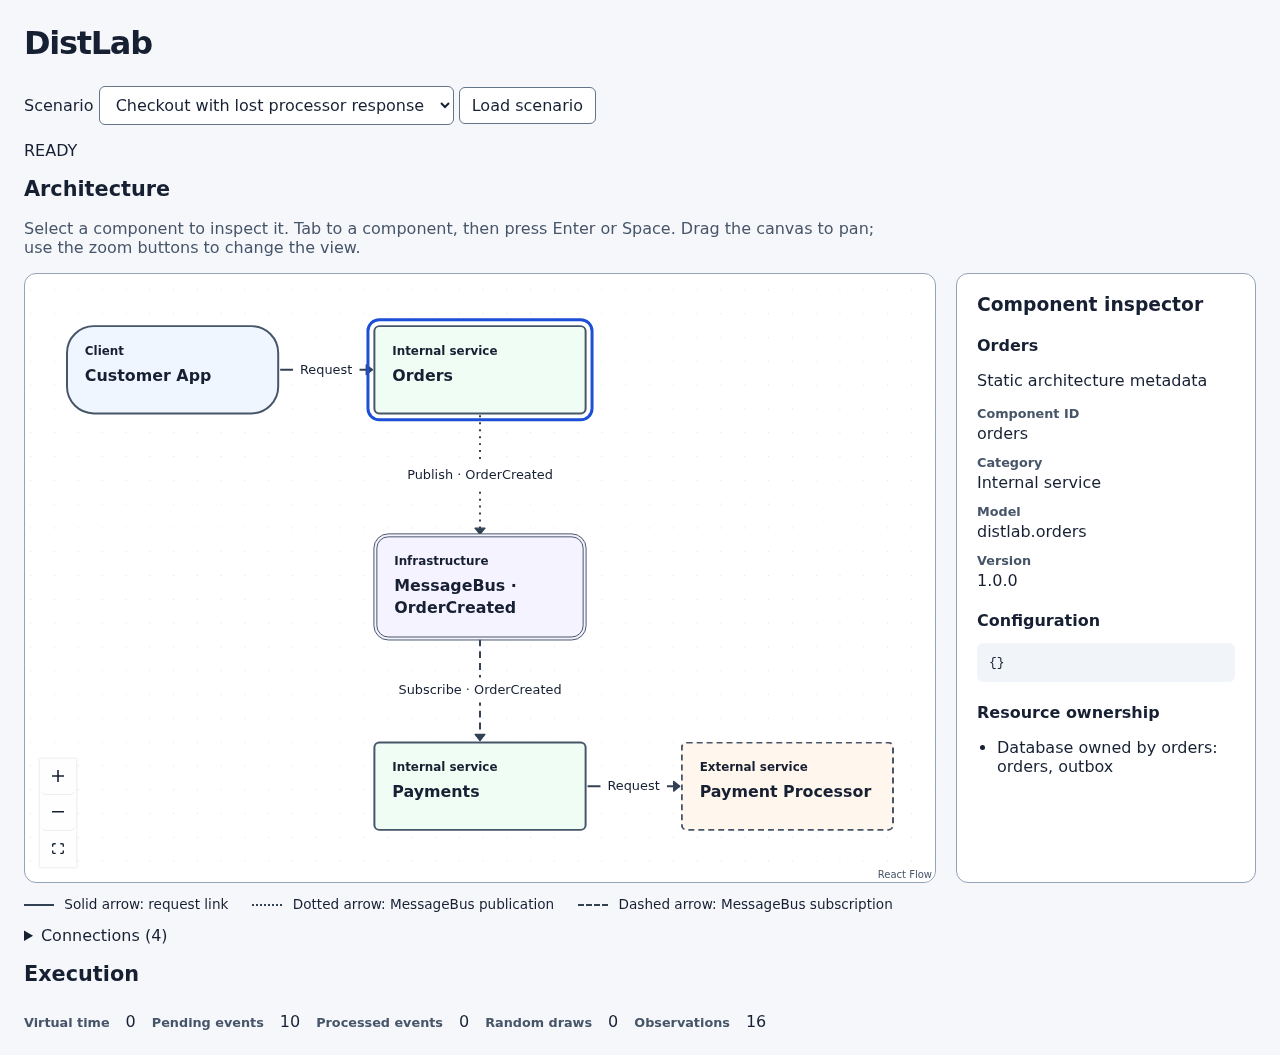
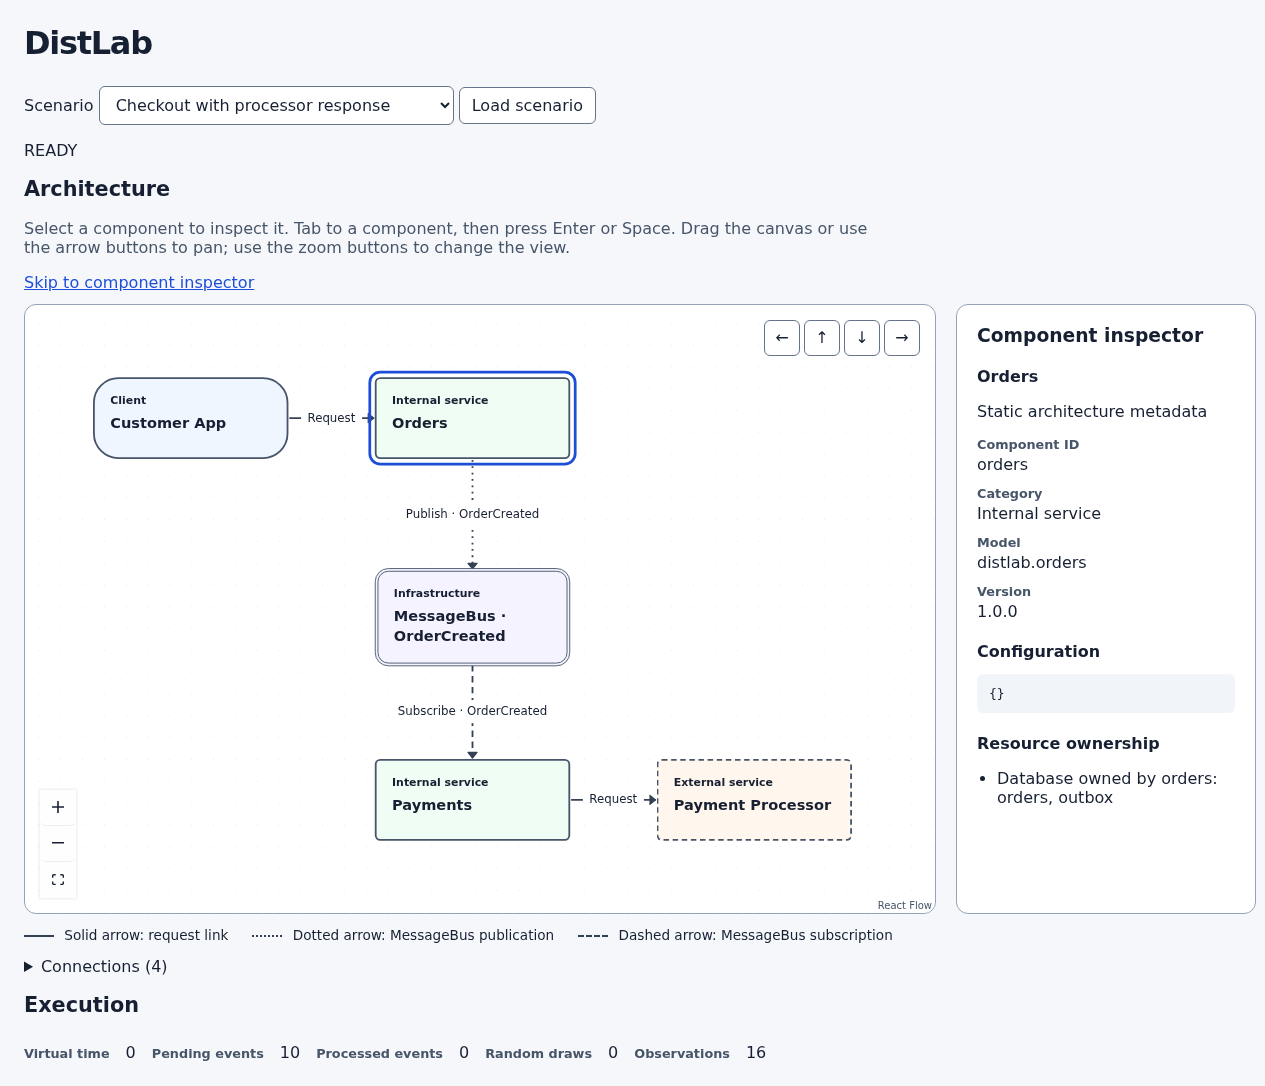
Improve architecture navigation accessibility and coverage

diff --git a/apps/web/src/ArchitectureView.tsx b/apps/web/src/ArchitectureView.tsx
@@ -1,5 +1,5 @@
 import { memo, useCallback, useMemo, useState } from "react";
-import { Background, Controls, Handle, Position, ReactFlow } from "@xyflow/react";
+import { Background, Controls, Handle, Panel, Position, ReactFlow, useReactFlow } from "@xyflow/react";
 import type { NodeChange, NodeProps } from "@xyflow/react";
 import type { ArchitectureDefinition, ArchitectureProjection } from "@distlab/contracts";
 import { categoryLabels, mapArchitecture } from "./architecture-view.ts";
@@ -25,6 +25,20 @@ const ariaLabelConfig = {
 };
 const fitViewOptions = { padding: 0.18, maxZoom: 1 };
 
+function PanControls() {
+  const { getViewport, setViewport } = useReactFlow();
+  const pan = (x: number, y: number) => {
+    const viewport = getViewport();
+    void setViewport({ ...viewport, x: viewport.x + x, y: viewport.y + y });
+  };
+  return <Panel position="top-right" className="pan-controls" role="group" aria-label="Pan view">
+    <button type="button" aria-label="Pan left" onClick={() => pan(80, 0)}><span aria-hidden="true">←</span></button>
+    <button type="button" aria-label="Pan up" onClick={() => pan(0, 80)}><span aria-hidden="true">↑</span></button>
+    <button type="button" aria-label="Pan down" onClick={() => pan(0, -80)}><span aria-hidden="true">↓</span></button>
+    <button type="button" aria-label="Pan right" onClick={() => pan(-80, 0)}><span aria-hidden="true">→</span></button>
+  </Panel>;
+}
+
 export function ArchitectureView({ architecture, metadata, scenarioName }: {
   readonly architecture: ArchitectureProjection;
   readonly metadata?: ArchitectureDefinition;
@@ -34,7 +48,7 @@ export function ArchitectureView({ architecture, metadata, scenarioName }: {
   const [selectedId, setSelectedId] = useState<string | null>(null);
   const nodes = useMemo(() => graph.nodes.map(node => ({
     ...node, selected: node.id === selectedId,
-    domAttributes: { "aria-pressed": node.id === selectedId, "aria-controls": "inspector-heading" },
+    domAttributes: { "aria-pressed": node.id === selectedId, "aria-controls": "component-inspector" },
   })), [graph.nodes, selectedId]);
   // Accept only selection changes. Positions and graph structure are immutable presentation inputs.
   const onNodesChange = useCallback((changes: NodeChange<ArchitectureNode>[]) => {
@@ -54,7 +68,8 @@ export function ArchitectureView({ architecture, metadata, scenarioName }: {
   if (graph.error) return <p role="alert">{graph.error}</p>;
   if (!nodes.length) return <p>No architecture components to display.</p>;
   return <>
-    <p className="graph-help">Select a component to inspect it. Tab to a component, then press Enter or Space. Drag the canvas to pan; use the zoom buttons to change the view.</p>
+    <p className="graph-help">Select a component to inspect it. Tab to a component, then press Enter or Space. Drag the canvas or use the arrow buttons to pan; use the zoom buttons to change the view.</p>
+    <a className="inspector-link" href="#component-inspector">Skip to component inspector</a>
     <div className="architecture-layout">
       <div className="graph-canvas" aria-label="Architecture graph" onKeyDownCapture={event => {
         if (!(event.target instanceof Element) || !event.target.closest(".react-flow__node")) return;
@@ -63,7 +78,7 @@ export function ArchitectureView({ architecture, metadata, scenarioName }: {
           event.preventDefault(); event.stopPropagation(); clearSelection();
         }
       }}>
-        <ReactFlow nodes={nodes} edges={graph.edges} nodeTypes={nodeTypes}
+        <ReactFlow aria-label="Architecture graph" nodes={nodes} edges={graph.edges} nodeTypes={nodeTypes}
           onNodesChange={onNodesChange} onPaneClick={clearSelection}
           nodesDraggable={false} nodesConnectable={false} edgesReconnectable={false}
           nodesFocusable edgesFocusable={false} deleteKeyCode={null}
@@ -72,6 +87,7 @@ export function ArchitectureView({ architecture, metadata, scenarioName }: {
           ariaLabelConfig={ariaLabelConfig}>
           <Background gap={24} color="#cbd5e1" />
           <Controls showInteractive={false} />
+          <PanControls />
         </ReactFlow>
       </div>
       <ComponentInspector node={graph.nodes.find(node => node.id === selectedId)} />

diff --git a/apps/web/e2e/smoke.spec.ts b/apps/web/e2e/smoke.spec.ts
@@ -49,6 +49,7 @@ for (const scenario of ["normal", "response-lost"]) {
     await expect(page.getByRole("status").filter({ hasText: "READY" })).toBeVisible();
     const architecture = page.getByRole("region", { name: "Architecture", exact: true });
     const inspector = page.getByRole("complementary", { name: "Component inspector" });
+    await expect(page.getByRole("application", { name: "Architecture graph" })).toBeVisible();
     await expect(inspector).toContainText("Select a component");
     await expect(architecture.locator(".react-flow__node")).toHaveCount(5);
     await expect(architecture.locator(".react-flow__edge")).toHaveCount(4);
@@ -92,6 +93,15 @@ for (const scenario of ["normal", "response-lost"]) {
     await page.getByRole("button", { name: "Zoom Out", exact: true }).click();
     const pane = architecture.locator(".react-flow__pane");
     const viewport = architecture.locator(".react-flow__viewport");
+    const beforeButtons = await viewport.getAttribute("style");
+    for (const direction of ["left", "up", "down", "right"]) {
+      const previous = await viewport.getAttribute("style");
+      const button = page.getByRole("button", { name: `Pan ${direction}`, exact: true });
+      await button.focus();
+      await button.press("Enter");
+      await expect(viewport).not.toHaveAttribute("style", previous!);
+    }
+    await expect(viewport).toHaveAttribute("style", beforeButtons!);
     const transform = await viewport.getAttribute("style");
     await pane.scrollIntoViewIfNeeded();
     const bounds = (await pane.boundingBox())!;
@@ -103,6 +113,12 @@ for (const scenario of ["normal", "response-lost"]) {
     await page.getByLabel("Scenario").selectOption(scenario === "normal" ? "response-lost" : "normal");
     await orders.click();
     await expect(inspector).toContainText("Database owned by orders: orders, outbox");
+    await expect(orders).toHaveAttribute("aria-controls", "component-inspector");
+    const inspectorLink = page.getByRole("link", { name: "Skip to component inspector" });
+    await inspectorLink.focus();
+    await inspectorLink.press("Enter");
+    await expect(inspector).toBeFocused();
+    await expect(inspector).toHaveCSS("outline-style", "solid");
     expect(await page.getByRole("region", { name: "Execution" }).innerText()).toBe(execution);
     expect(await page.evaluate(() => window.workerEvidence.commands.map(command => command.type))).toEqual(["load"]);
     await page.evaluate(() => window.workerEvidence.probeHistory());

diff --git a/apps/web/src/architecture.css b/apps/web/src/architecture.css
@@ -6,7 +6,13 @@ h1 { margin: 0 0 24px; letter-spacing: -.04em; }
 h2 { font-size: 1.3rem; }
 button, select { font: inherit; padding: 8px 12px; border: 1px solid #64748b; border-radius: 6px; background: white; color: #172033; }
 button { cursor: pointer; }
-button:focus-visible, select:focus-visible, summary:focus-visible { outline: 3px solid #1d4ed8; outline-offset: 3px; }
+button:hover { background: #e2e8f0; }
+button, a, summary { touch-action: manipulation; }
+button:focus-visible, select:focus-visible, summary:focus-visible, a:focus-visible, .inspector:focus-visible { outline: 3px solid #1d4ed8; outline-offset: 3px; }
+.inspector-link { display: inline-block; margin-bottom: 12px; color: #1d4ed8; }
+.inspector-link:hover { color: #172033; }
+.pan-controls { display: flex; gap: 4px; }
+.pan-controls button { width: 36px; height: 36px; padding: 0; }
 .architecture-layout { display: grid; grid-template-columns: minmax(0, 1fr) 300px; gap: 20px; align-items: stretch; }
 .graph-help { max-width: 85ch; color: #475569; }
 .graph-canvas { height: 610px; min-width: 0; background: #fff; border: 1px solid #94a3b8; border-radius: 12px; overflow: hidden; }

diff --git a/apps/web/e2e/accessibility.spec.ts b/apps/web/e2e/accessibility.spec.ts
@@ -1,0 +1,20 @@
+import AxeBuilder from "@axe-core/playwright";
+import { expect, test } from "@playwright/test";
+
+test("architecture and each inspector pass accessibility checks at desktop and mobile sizes", async ({ page }) => {
+  await page.goto("/");
+  expect((await new AxeBuilder({ page }).analyze()).violations).toEqual([]);
+  await page.getByRole("button", { name: "Load scenario" }).click();
+  const nodes = page.locator(".react-flow__node");
+  await expect(nodes).toHaveCount(5);
+  for (const width of [1280, 390]) {
+    await page.setViewportSize({ width, height: 900 });
+    await page.getByRole("button", { name: "Fit View", exact: true }).click();
+    for (const node of await nodes.all()) {
+      await node.focus();
+      await node.press("Enter");
+      await expect(node).toHaveAttribute("aria-pressed", "true");
+      expect((await new AxeBuilder({ page }).analyze()).violations).toEqual([]);
+    }
+  }
+});

diff --git a/apps/web/src/ComponentInspector.tsx b/apps/web/src/ComponentInspector.tsx
@@ -2,7 +2,7 @@ import type { ArchitectureNode } from "./architecture-view.ts";
 import { categoryLabels } from "./architecture-view.ts";
 
 export function ComponentInspector({ node }: { readonly node: ArchitectureNode | undefined }) {
-  return <aside className="inspector" aria-labelledby="inspector-heading">
+  return <aside id="component-inspector" className="inspector" aria-labelledby="inspector-heading" tabIndex={-1}>
     <h3 id="inspector-heading">Component inspector</h3>
     {node ? <>
       <h4>{node.data.title}</h4>

diff --git a/apps/web/docs/issue-18-review.md b/apps/web/docs/issue-18-review.md
@@ -1,0 +1,61 @@
+# Issue 18 independent review
+
+Reviewed the settled implementation at `06dda5d` on
+`carlosmgc2003/issue-18-react-flow` for [issue #18](https://github.com/carlosmgc2003/distlab/issues/18)
+and preserved [PR #40](https://github.com/carlosmgc2003/distlab/pull/40).
+
+## Findings fixed
+
+- `apps/web/src/ArchitectureView.tsx:28` — drag-only panning now has labeled,
+  keyboard-operable arrow buttons; viewport updates stay inside React Flow.
+- `apps/web/src/ArchitectureView.tsx:51` — node `aria-controls` now references
+  the inspector panel instead of its heading.
+- `apps/web/src/ArchitectureView.tsx:72` — an inspector skip link now gives
+  keyboard users a direct route to metadata, with visible destination focus.
+- `apps/web/src/ArchitectureView.tsx:81` — the graph application role now has
+  an accessible name on the role-bearing element.
+- `apps/web/src/architecture.css:9` — buttons now provide hover feedback;
+  the new link and inspector destination have explicit focus styling.
+- `README.md` — replaced the stale statement that all controls beyond the
+  chooser were deferred; documented the read-only graph and metadata sources.
+
+## Architecture and React review
+
+The application boundary and MVP catalog specifications, architecture sections
+2, 31, 34, and 36, and the repository guidance remain satisfied. Five nodes show
+the client, two internal services, external provider, and MessageBus destination.
+Two request edges and one subscription come from the projection; the documented
+Orders publication is version-gated lesson copy. Category text, border shapes,
+edge labels, and dash patterns provide cues independent of color.
+
+Layout positions are deterministic and detached from simulation inputs.
+Configuration and resource ownership come from matching frozen packaged
+metadata, with undeclared infrastructure model/version shown explicitly. The
+inspector receives no component-state projection. Empty, malformed, worker-error,
+and private-state cases have regression coverage.
+
+The React best-practices review found stable node types, memoized mapping and
+node rendering, derived inspector selection, and local selection/viewport state.
+The new pan controls read the current viewport in event handlers. No effects,
+runtime imports, contracts, kernel, ScenarioEngine, or catalog changes were added.
+
+The [current Web Interface Guidelines](https://raw.githubusercontent.com/vercel-labs/web-interface-guidelines/main/command.md)
+were fetched on 2026-09-23 before the UI review. Relevant checks covered semantic
+controls, keyboard alternatives, names, focus, hover, responsive content,
+contrast-independent cues, and empty/error states.
+
+## Validation
+
+- Root build, typecheck, unit/worker tests, and package-boundary checks.
+- Seven Chromium browser tests, including an axe scan before loading and for
+  all five selected inspectors at desktop and mobile sizes.
+- Both checkout variants exercise keyboard selection, viewport buttons,
+  dragging, inspector focus navigation, and verify that UI interactions send
+  only the initial load command; a test-only worker probe confirms unchanged
+  canonical history and component state afterward.
+- Manual desktop/mobile browser inspection and refreshed `architecture.png`.
+- `git diff --check`.
+
+No remaining in-scope blockers were found. Browser validation targets the
+repository's Chromium baseline; automated accessibility checks do not substitute
+for testing every assistive technology.

diff --git a/README.md b/README.md
@@ -196,8 +196,23 @@ complete, visible scheduler observations provide pending/processed event counts,
 and their specified random draw count is zero. Modified or arbitrary scenarios
 are rejected with `INVALID_SCENARIO`: general scenario hosting requires a kernel
 counter read port, including reliable counts when history is incomplete or
-redacted. No counters are inferred from incomplete history. UI controls beyond
-the chooser are reserved for subsequent issues.
+redacted. No counters are inferred from incomplete history. Simulation controls
+beyond loading a scenario are reserved for subsequent issues.
+
+The checkout architecture uses a fixed React Flow layout with labeled category
+and relationship cues. Select a node with a click, Enter, or Space to inspect
+static model/version/configuration and resource ownership; Escape clears the
+selection. Pan by dragging or using the arrow buttons, and use the zoom and fit
+buttons to adjust the viewport. The inspector skip link moves keyboard focus
+directly to the metadata panel. These interactions remain local to the UI and
+send no worker commands.
+
+Request links and subscriptions come from the architecture projection. The
+Orders publication relationship and model-owned resource descriptions are
+documented lesson copy, restricted to the two packaged checkout lessons and
+their model versions. The inspector never renders live component state.
+Browser tests cover keyboard focus, desktop/mobile accessibility with axe,
+empty/error states, and unchanged worker history after UI interactions.
 
 ## Checkout lesson
 
